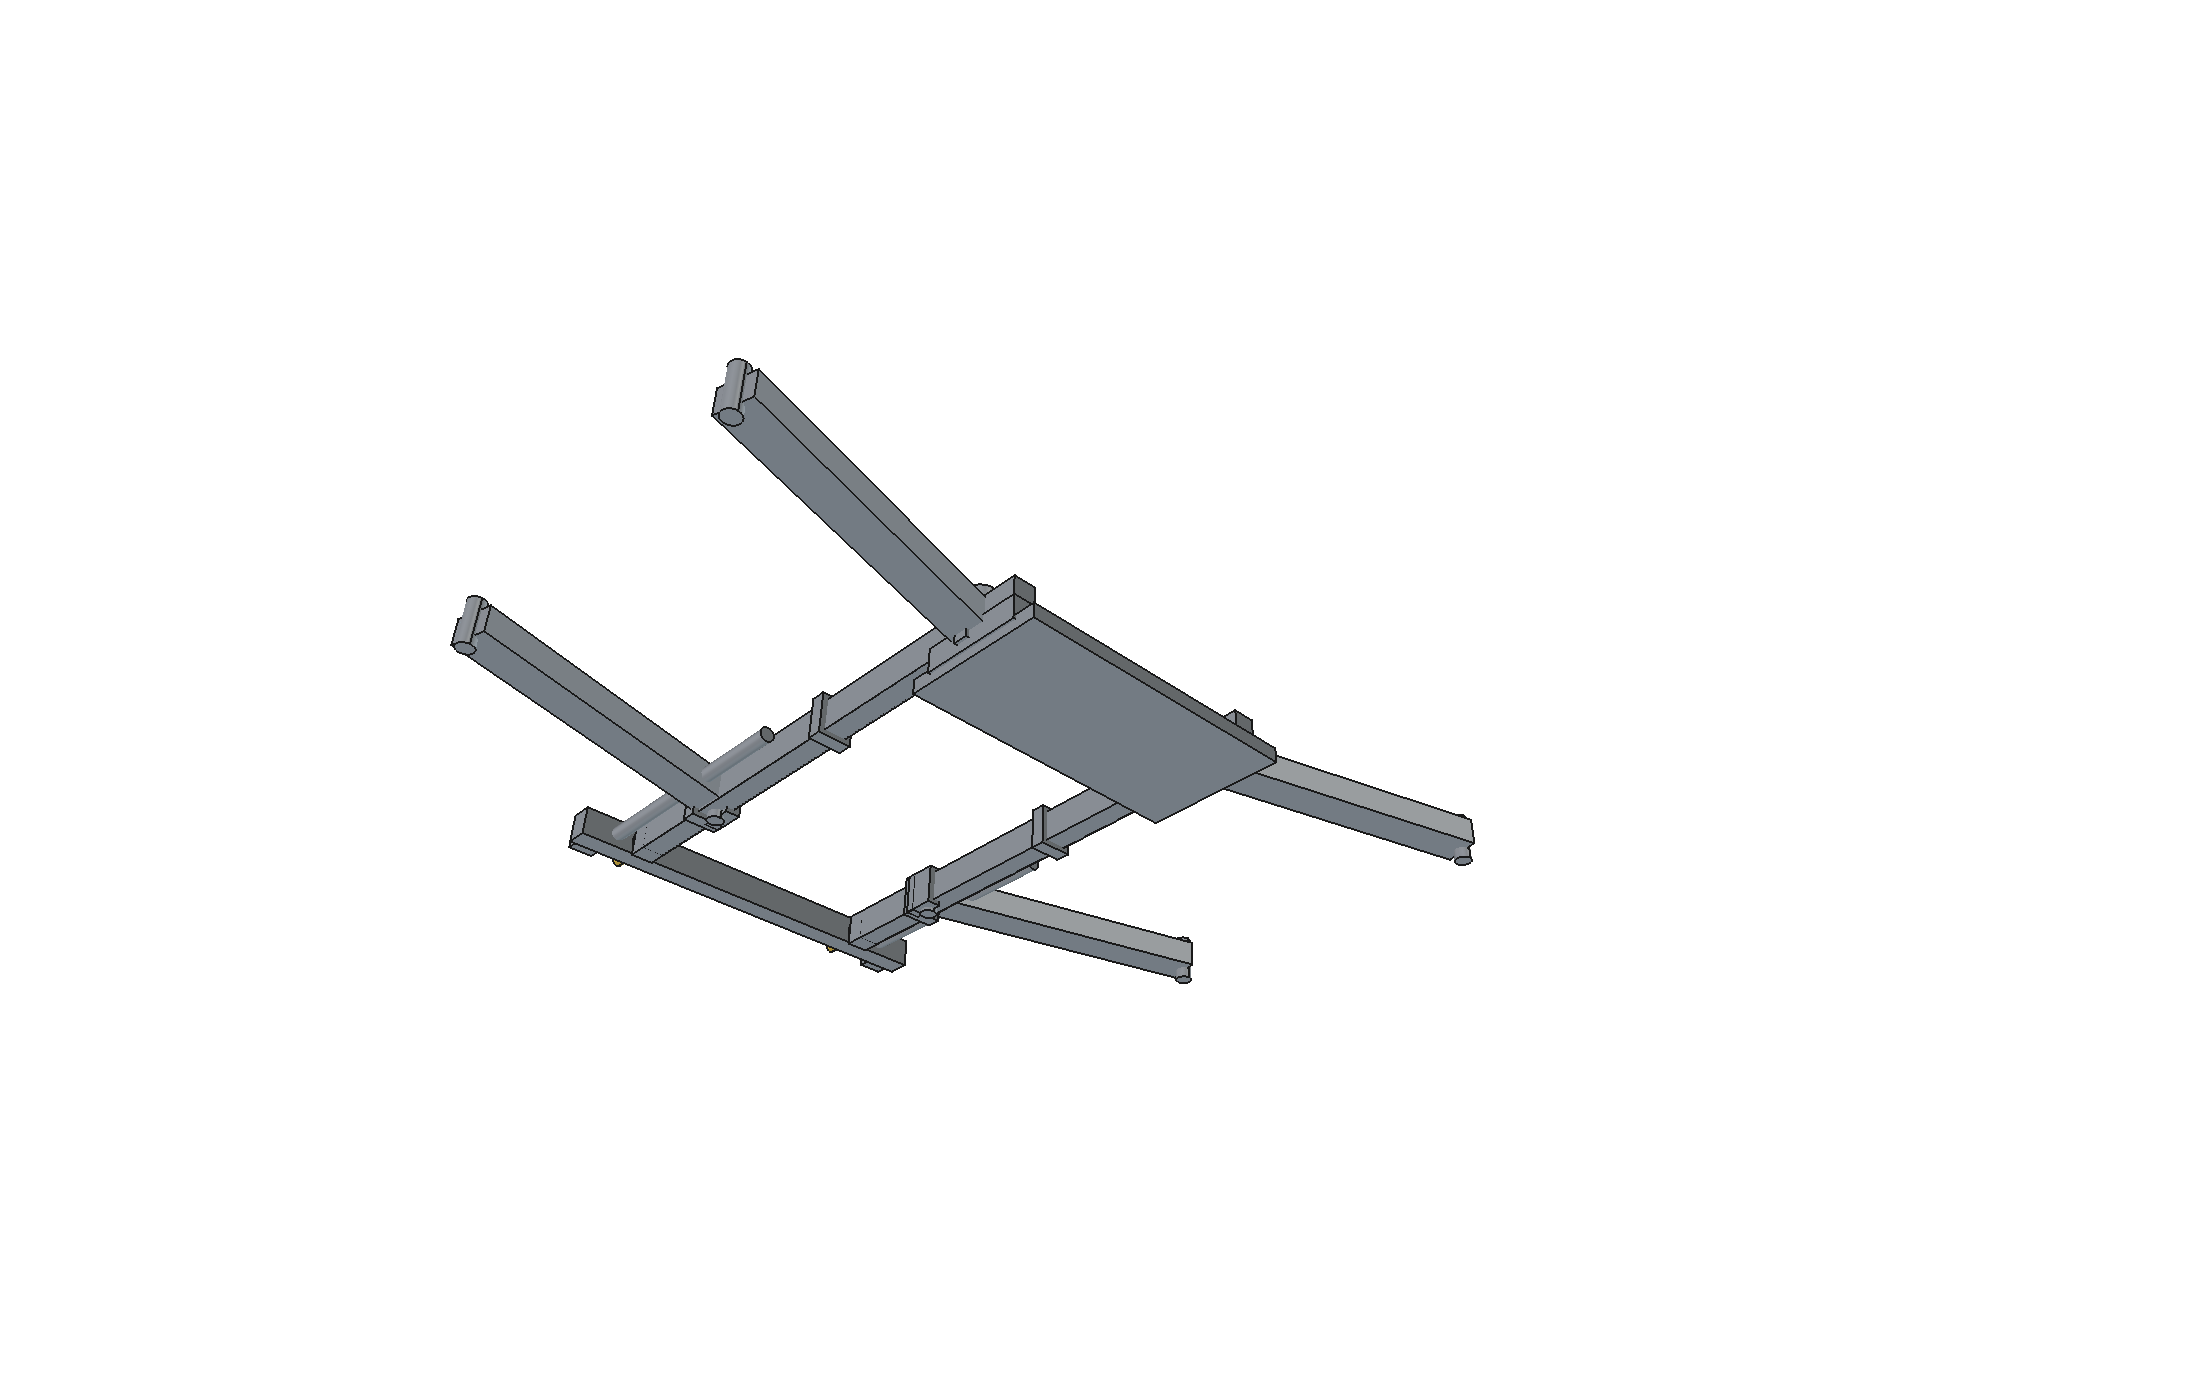
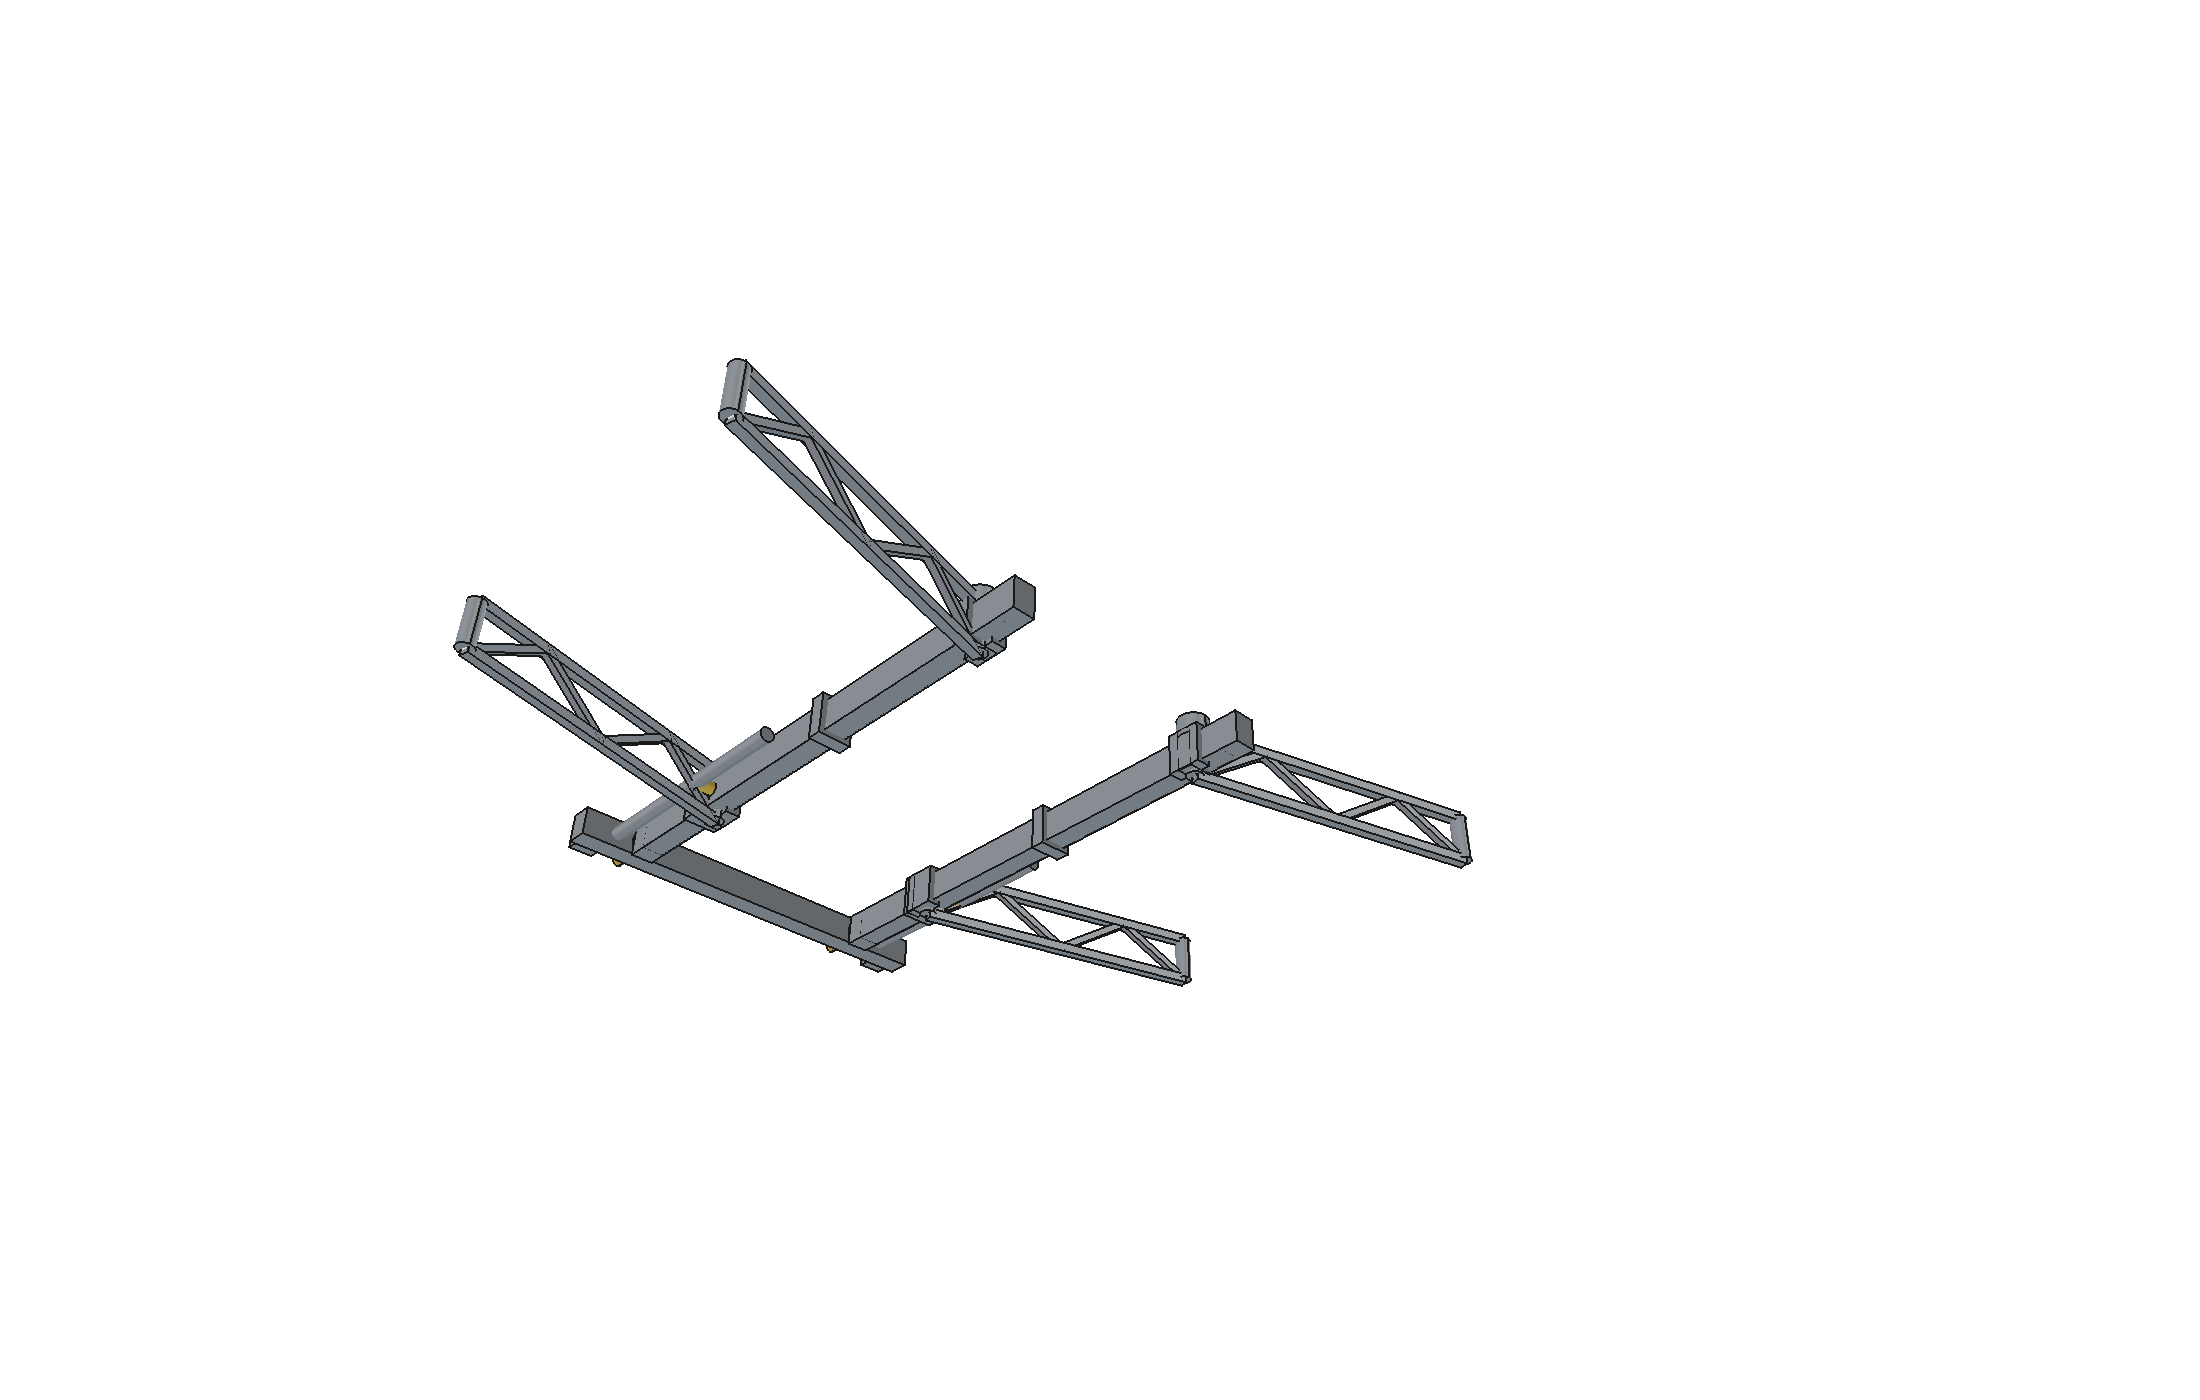
Swing arms 155 -> 48 kg: trusses, and an honest load split
The arms were heavy because of two errors compounding, not physics.

First, I put 100% of a float's buoyancy on ONE arm.  The float is a
stiff beam pinned at two arms with its immersion centroid midway
between them; even pitched hard bow-down the split is about 70/30.
The load case drops from 16.5 kN to 11.5, the moment from 31.6 kNm to
22.1.

Second, that moment was being carried by a box wall in BENDING.  A
truss carries it axially in its chords: 22.1 kNm over 300 mm of depth
is 73.6 kN per chord, 82 MPa in a 60x60x4.  The arm becomes two chords
and four diagonals - 48 kg for all four arms instead of 155.

Also dropped as asked: the forward cross tie with its knees, and the
dinghy battery/solar/fittings line.

Hangar is now 448 kg, inside the 400-600 kg band a commercial braked
trailer for 3 t occupies - while also being the floats and the swing
gear.

Changed region(s): [[0.3091, 0.2764, 0.68, 0.6143], [0.2164, 0.43, 0.34, 0.5836], [0.4018, 0.6143, 0.5564, 0.7064]]

diff --git a/freecad/build_boat.py b/freecad/build_boat.py
@@ -607,10 +607,31 @@ def build_hangar(phi, coupled=True, tow="sea"):
             ty = py + sy * P.SWING_ARM_R * _m.sin(ang)
             L = _m.hypot(tx - px, ty - py)
             yaw = _m.degrees(_m.atan2(ty - py, tx - px))
-            arm = box(L, arm_b, arm_h, (0, -arm_b / 2, -arm_h / 2))
-            arm.Placement = Placement(Vector(px, py, P.POD_DOCKED[1]),
-                                      Rotation(Vector(0, 0, 1), yaw))
-            parts.append(arm)
+            # a TRUSS, not a solid box: two chords 300 apart in the
+            # vertical plane with diagonals between them
+            mem = []
+            for cz in (-P.SWING_ARM_DEEP / 2, P.SWING_ARM_DEEP / 2):
+                mem.append(box(L, 60, 60, (0, -30, cz - 30)))
+            n_bay = 4
+            for i in range(n_bay):
+                x0 = L * i / n_bay
+                x1 = L * (i + 1) / n_bay
+                dx_, dz_ = x1 - x0, P.SWING_ARM_DEEP
+                ln = math.hypot(dx_, dz_)
+                dia = box(ln, 45, 45, (0, -22, -22))
+                dia.Placement = Placement(
+                    Vector(x0, 0, -P.SWING_ARM_DEEP / 2 if i % 2 == 0
+                           else P.SWING_ARM_DEEP / 2),
+                    Rotation(Vector(0, 1, 0),
+                             -math.degrees(math.atan2(dz_, dx_))
+                             if i % 2 == 0
+                             else math.degrees(math.atan2(dz_, dx_))))
+                mem.append(dia)
+            for m_ in mem:
+                m_.Placement = Placement(
+                    Vector(px, py, P.POD_DOCKED[1]),
+                    Rotation(Vector(0, 0, 1), yaw)).multiply(m_.Placement)
+                parts.append(m_)
             # vertical pivot pin at the hull, and the pin at the float
             for (cx, cy) in ((px, py), (tx, ty)):
                 parts.append(Part.makeCylinder(
@@ -631,22 +652,6 @@ def build_hangar(phi, coupled=True, tow="sea"):
     # no extra struts: the parallelogram IS the structure, exactly as
     # on the boats this pattern comes from. Each arm is a deep box beam
     # and the four pins are the only moving parts.
-
-    # ---- the forward CROSS TIE: the open end of the U is closed by a
-    # beam under the keel, so the two girders work as a frame and each
-    # swing arm sheds part of its moment into the other side instead of
-    # taking it all in its own pins. It hangs 120 mm below the keel -
-    # still 200 mm of ground clearance under it.
-    tie_x = 100 + P.SPIKE_L - 300
-    tie_y = P.STEM_HW + gb / 2 - 20
-    tie_z = 12                               # sits IN the keel channel
-    parts.append(box(P.TIE_W, 2 * tie_y + gb, P.TIE_H,
-                     (tie_x - P.TIE_W / 2, -tie_y - gb / 2, tie_z)))
-    # a knee each side, up from the bar to the girder web
-    for sy in (-1, 1):
-        parts.append(box(P.TIE_W, gb + 20, P.POD_DOCKED[1] - tie_z,
-                         (tie_x - P.TIE_W / 2, sy * tie_y - (gb + 20) / 2,
-                          tie_z)))
 
     # ---- bight + drawbar: a FIXED, small triangle at docked width.
     # It belongs to the ROAD function; the extended floats leave it

diff --git a/freecad/params.py b/freecad/params.py
@@ -135,6 +135,7 @@ SWING_PIVOT_X = 641                # aft vertical pin, both sides.
                                    # float needs support
 SWING_PIVOT_Y = 810                # on the stem face
 SWING_ARM_R = 1918                 # pin to float, both arms
+SWING_ARM_DEEP = 300               # truss depth; chords 60x60x4
 SWING_ARM_GAP = -2300              # fore/aft pin spacing: the arms land
                                    # at float x 1150 and 3450 deployed,
                                    # so nothing is cantilevered
@@ -274,7 +275,7 @@ def hangar_mass():
     alu = bight_m * HANGAR_BIGHT[0] * HANGAR_BIGHT[1] * 0.15 * 2.7e-3
     return (floats + MASS_WHEELS_HUBS + MASS_EXTENDERS + MASS_FLIPGEAR +
             MASS_HYDRAULICS + MASS_UGIRDER + alu +
-            4 * LOCK_MOTOR_KG + 20 + DINGHY_BATT_KG + 25)
+            4 * LOCK_MOTOR_KG + 20)
 
 
 def float_buoyancy():
@@ -952,17 +953,19 @@ BULKHEAD_X = (900, 2400, 3900, 5400, 6200)
 
 # masses that are NOT laminate, kg. Sources in the docs named alongside.
 MASS_EXOSKELETON = 260     # S355 tube frame + brackets, galvanised
-MASS_UGIRDER = 87          # girders down to 110x160x6 (56 kg, SF 4.2)
-                           # plus the cross tie and knees (31 kg)
+MASS_UGIRDER = 56          # girders 110x160x6, SF 4.1. The cross tie
+                           # and its knees are gone - see below
 MASS_WHEELS_HUBS = 78      # 6 x 13 kg PLAIN trailer wheels. The
                            # hydraulic hub drive is deleted: with the
                            # hangar as the trailer, self-propulsion on
                            # land is no longer needed for the
                            # certification story, and it cost 192 kg
                            # of hub motors plus 120 kg of hydraulics
-MASS_EXTENDERS = 127       # 4 swing arms, 140x260x8 alu box: deeper
-                           # and thinner-walled carries the same
-                           # moment for 28 kg less (SF 1.4)
+MASS_EXTENDERS = 48        # 4 swing arms as 300 mm deep TRUSSES with
+                           # 60x60x4 chords, not solid boxes: the
+                           # chords take the moment axially at 82 MPa
+                           # instead of a box wall taking it in
+                           # bending. 155 -> 48 kg
 MASS_FLIPGEAR = 81         # d120x12 tubes and d110 arms, as built
 MASS_HYDRAULICS = 0        # deleted with the hub drive
 MASS_JETS = 75             # 3 x 2 kW waterjet cartridges incl. ducting

diff --git a/freecad/structure_calc.py b/freecad/structure_calc.py
@@ -128,22 +128,30 @@ def main():
     # with the slam factor on top.
     reserve = (P.FLOAT_LEN * P.FLOAT_W * P.FLOAT_H * 0.80
                - 3 * P.WELL_L * P.WELL_W * P.FLOAT_H) / 1e6   # kg
-    F = reserve * G * DYN_SLAM
+    # the float is a stiff beam pinned at TWO arms and its immersion
+    # centroid sits midway between them; even pitched hard bow-down the
+    # split is about 70/30. Putting 100% on one arm double-counted the
+    # worst case.
+    ARM_SHARE = 0.70
+    F = reserve * G * DYN_SLAM * ARM_SHARE
     lever = P.SWING_ARM_R
     M2 = F * lever
     V2 = F
-    A2, I2, Z2 = box_section(140, 260, 8)
+    # a TRUSS carries bending in its chords, axially - far lighter than
+    # a box wall doing it in bending
+    chord = 60 * 60 - 52 * 52
+    Z2 = chord * P.SWING_ARM_DEEP        # couple: chord force x depth
+    A2 = 2 * chord
+    I2 = 2 * chord * (P.SWING_ARM_DEEP / 2) ** 2
     print("\n" + "=" * 68)
     print("2. THE SWING ARM  (sea: a float driven under by a wave)")
     print("=" * 68)
-    print(f"  float reserve buoyancy {reserve:.0f} kg, slam factor "
-          f"{DYN_SLAM} -> {F / 1e3:.1f} kN on ONE arm")
+    print(f"  float reserve buoyancy {reserve:.0f} kg x slam {DYN_SLAM} "
+          f"x {ARM_SHARE:.0%} share -> {F / 1e3:.1f} kN on the worse arm")
     print(f"  cantilever {lever:.0f} mm from the pin")
-    ok2 = report("  140 x 260 x 8 alu box (deep in the vertical plane)",
-                 M2, V2, box_section(140, 260, 8)[2],
-                 box_section(140, 260, 8)[0],
-                 box_section(140, 260, 8)[1], 0,
-                 note="worst case: all of one float on a single arm")
+    ok2 = report(f"  truss {P.SWING_ARM_DEEP} deep, 60x60x4 chords",
+                 M2, V2, Z2, A2, I2, 0,
+                 note=f"{ARM_SHARE:.0%} of the float on the worse arm")
     if not ok2:
         print("  -> the arm must be deeper in the vertical plane:")
         for h in (260, 300, 340, 380):

diff --git a/docs/floater.md b/docs/floater.md
@@ -110,23 +110,31 @@ floor is **609 kg**:
 
 | Item | kg | What was done |
 |---|---|---|
-| Float shells | 129 | PVC80 18 mm → **PET60 15 mm, 800/600 skins** (−51) |
-| 6 wheels | 78 | **hub motors deleted** — plain trailer wheels (−192) |
-| Swing arms | 127 | 165×230×10 → **140×260×8**, deeper and thinner (−28) |
+| Float shells | 129 | PVC80 18 mm → **PET60 15 mm, 800/600 skins** |
 | Flip tubes + arms | 81 | as calculated, ⌀120 × 12 |
-| U-girder | 56 | 140×200×8 → **110×160×6**, SF 4.1 (−37) |
-| Cross tie, knees, bight | 56 | |
+| 6 wheels | 78 | **hub motors deleted** — plain trailer wheels |
+| U-girder | 56 | **110 × 160 × 6**, SF 4.1 |
+| Swing arms | **48** | **300 mm deep trusses**, 60 × 60 × 4 chords — not boxes |
+| Bight | 25 | |
 | Dock locks | 30 | |
-| Dinghy battery, solar, fittings | 51 | |
-| Hydraulic drive | **0** | **deleted** (−120) |
-| **Total** | **609** | was 1 003 |
+| Hydraulic drive | **0** | **deleted** |
+| Cross tie, knees, dinghy fit-out | **0** | **deleted** |
+| **Total** | **448** | was 1 003 |
+
+**The arms were the honest mistake.** 127 kg for four beams came from
+two errors compounding: putting **100 % of a float's buoyancy on one
+arm** when the float is a stiff beam pinned at two of them (immersion
+centroid midway; 70/30 even pitched hard bow-down), and then carrying
+that moment in a **box wall in bending**. A truss carries the same
+moment **axially in its chords**: 22.1 kNm over a 300 mm depth is
+73.6 kN per chord, 82 MPa in a 60 × 60 × 4 — **155 kg → 48 kg**.
 
 **300 kg is below the physical floor for this boat.** The reason is that
 almost every item scales with what it carries: a 3 153 kg combination
 needs six wheels, and the beams that spread that load over them are
 what they are. For scale, a **commercial braked boat trailer for 3 t
-weighs 400–600 kg empty** — and it has no floats, no swing gear and no
-dinghy fit-out.
+weighs 400–600 kg empty** — and it has no floats and no swing gear.
+At 448 kg this one is already inside that band while doing more.
 
 The hangar reaches 300 kg only if the **boat** does its share: at
 roughly 1 800 kg loaded it needs four wheels instead of six and
@@ -150,8 +158,8 @@ shock on a trailer axle, ×3.0 wave slam on an outrigger.
 
 | Member | Case | Moment | Stress | SF | Section |
 |---|---|---|---|---|---|
-| U-girder | 3 153 kg × 2.5 over 3 wheel stations, 1.7 m bay | 3.5 kNm | 25 MPa | **4.1** | 110 × 160 × 6 box |
-| Swing arm | one float's full 559 kg buoyancy × 3.0 on **one** arm, 1 918 mm lever | 31.6 kNm | 75 MPa | **1.4** | 140 × 260 × 8 box |
+| U-girder | 2 992 kg × 2.5 over 3 wheel stations, 1.7 m bay | 3.3 kNm | 24 MPa | **4.3** | 110 × 160 × 6 box |
+| Swing arm | 70 % of one float's 559 kg × 3.0, 1 918 mm lever | 22.1 kNm | 82 MPa | **1.3** | 300 deep truss, 60 × 60 × 4 chords |
 | Flip-arm tube | one wheel's share × 2.5 on the 516 mm arm | 7.0 kNm | 70 MPa | **1.5** | ⌀120 × 12 tube |
 
 Two results changed the design:
